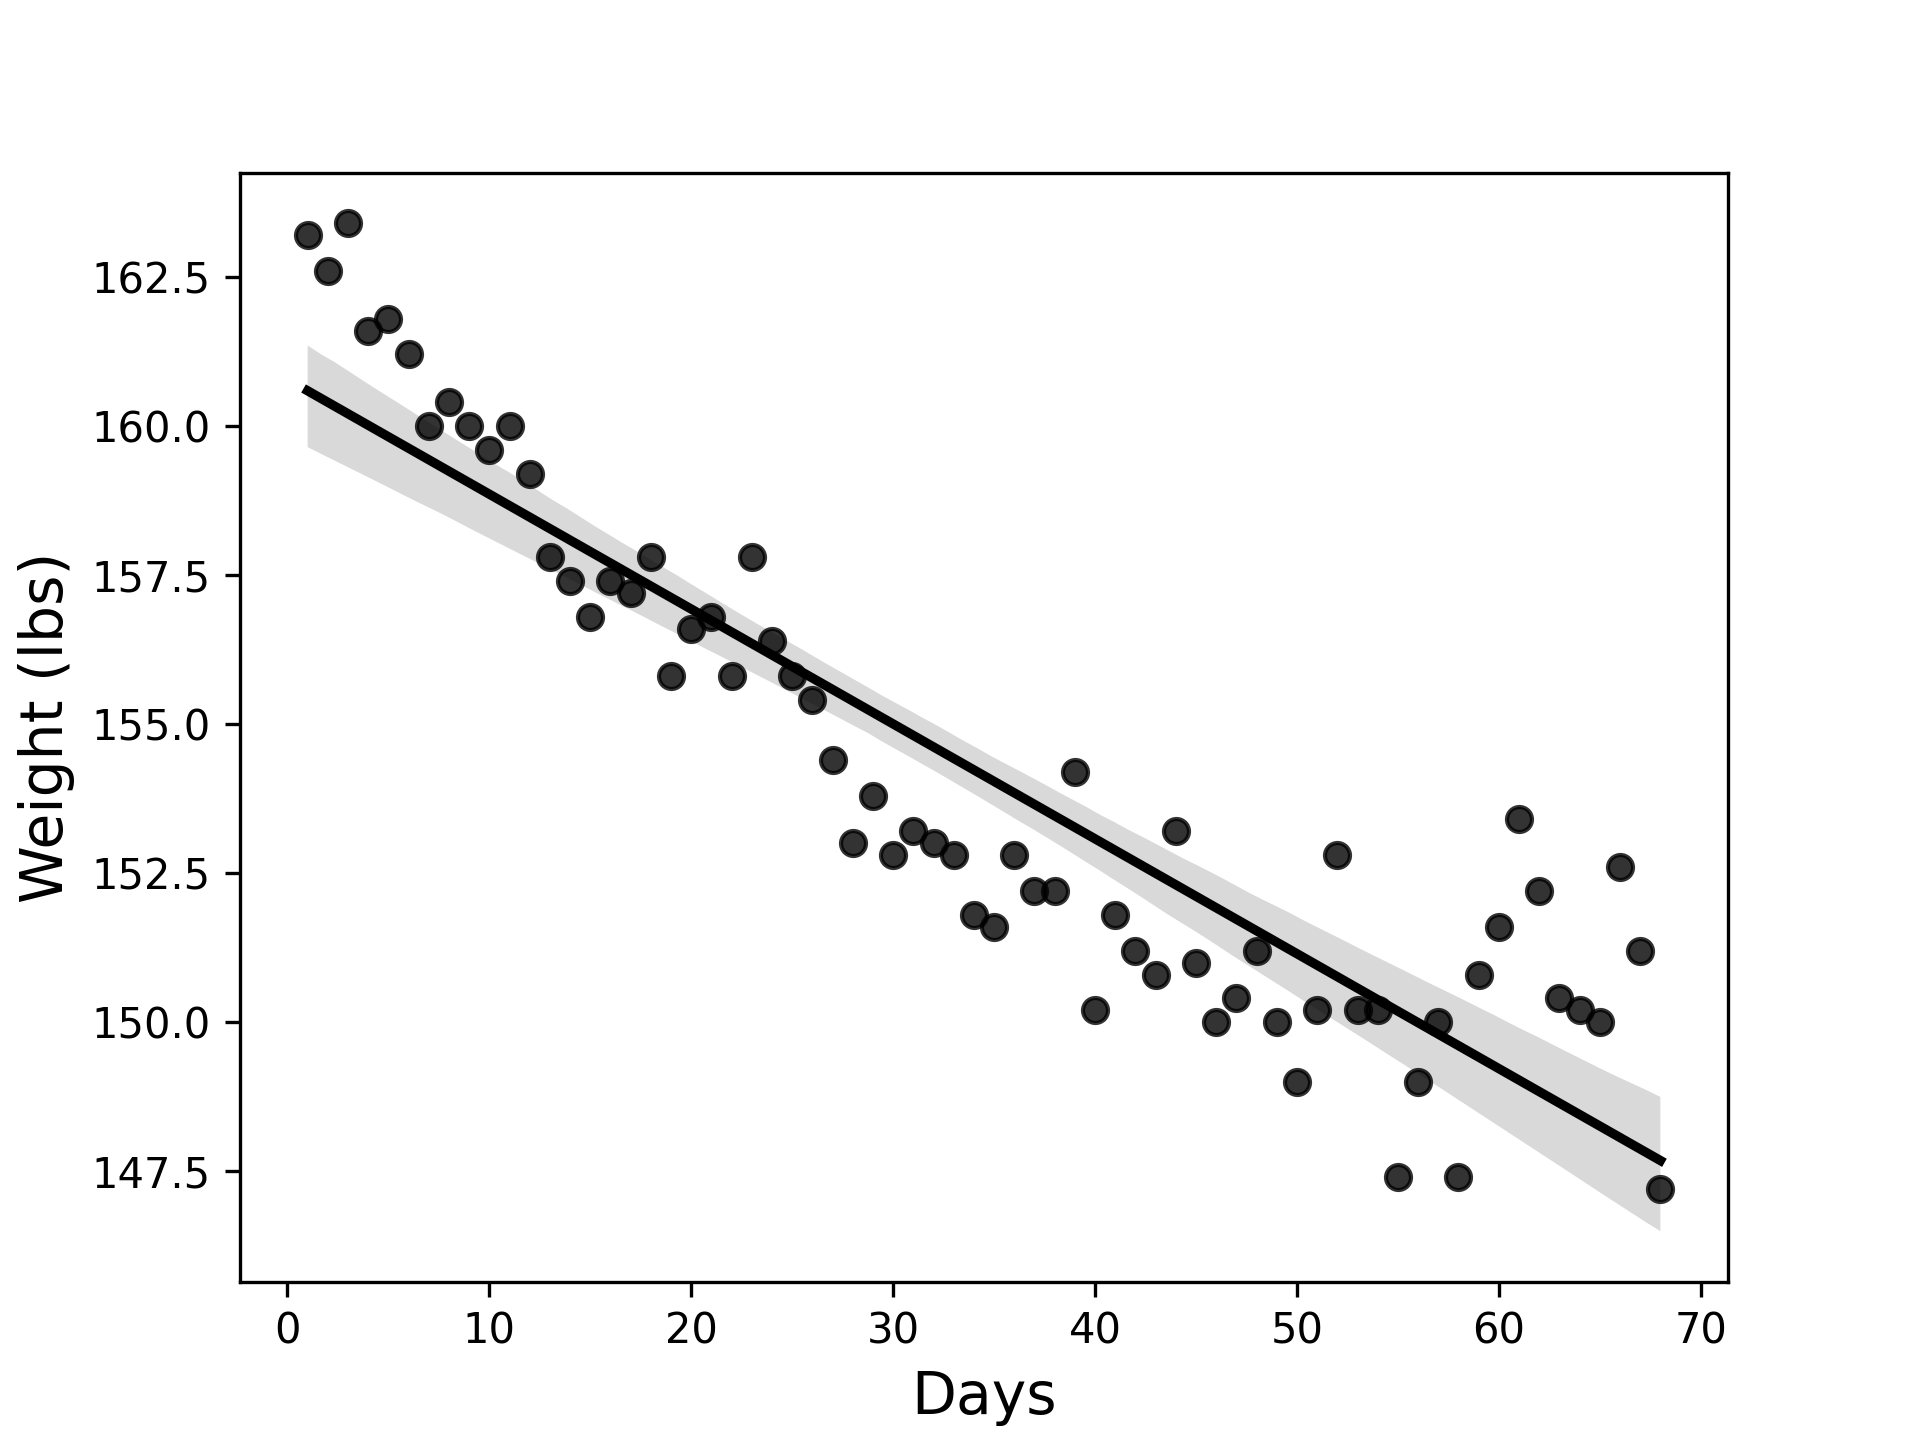
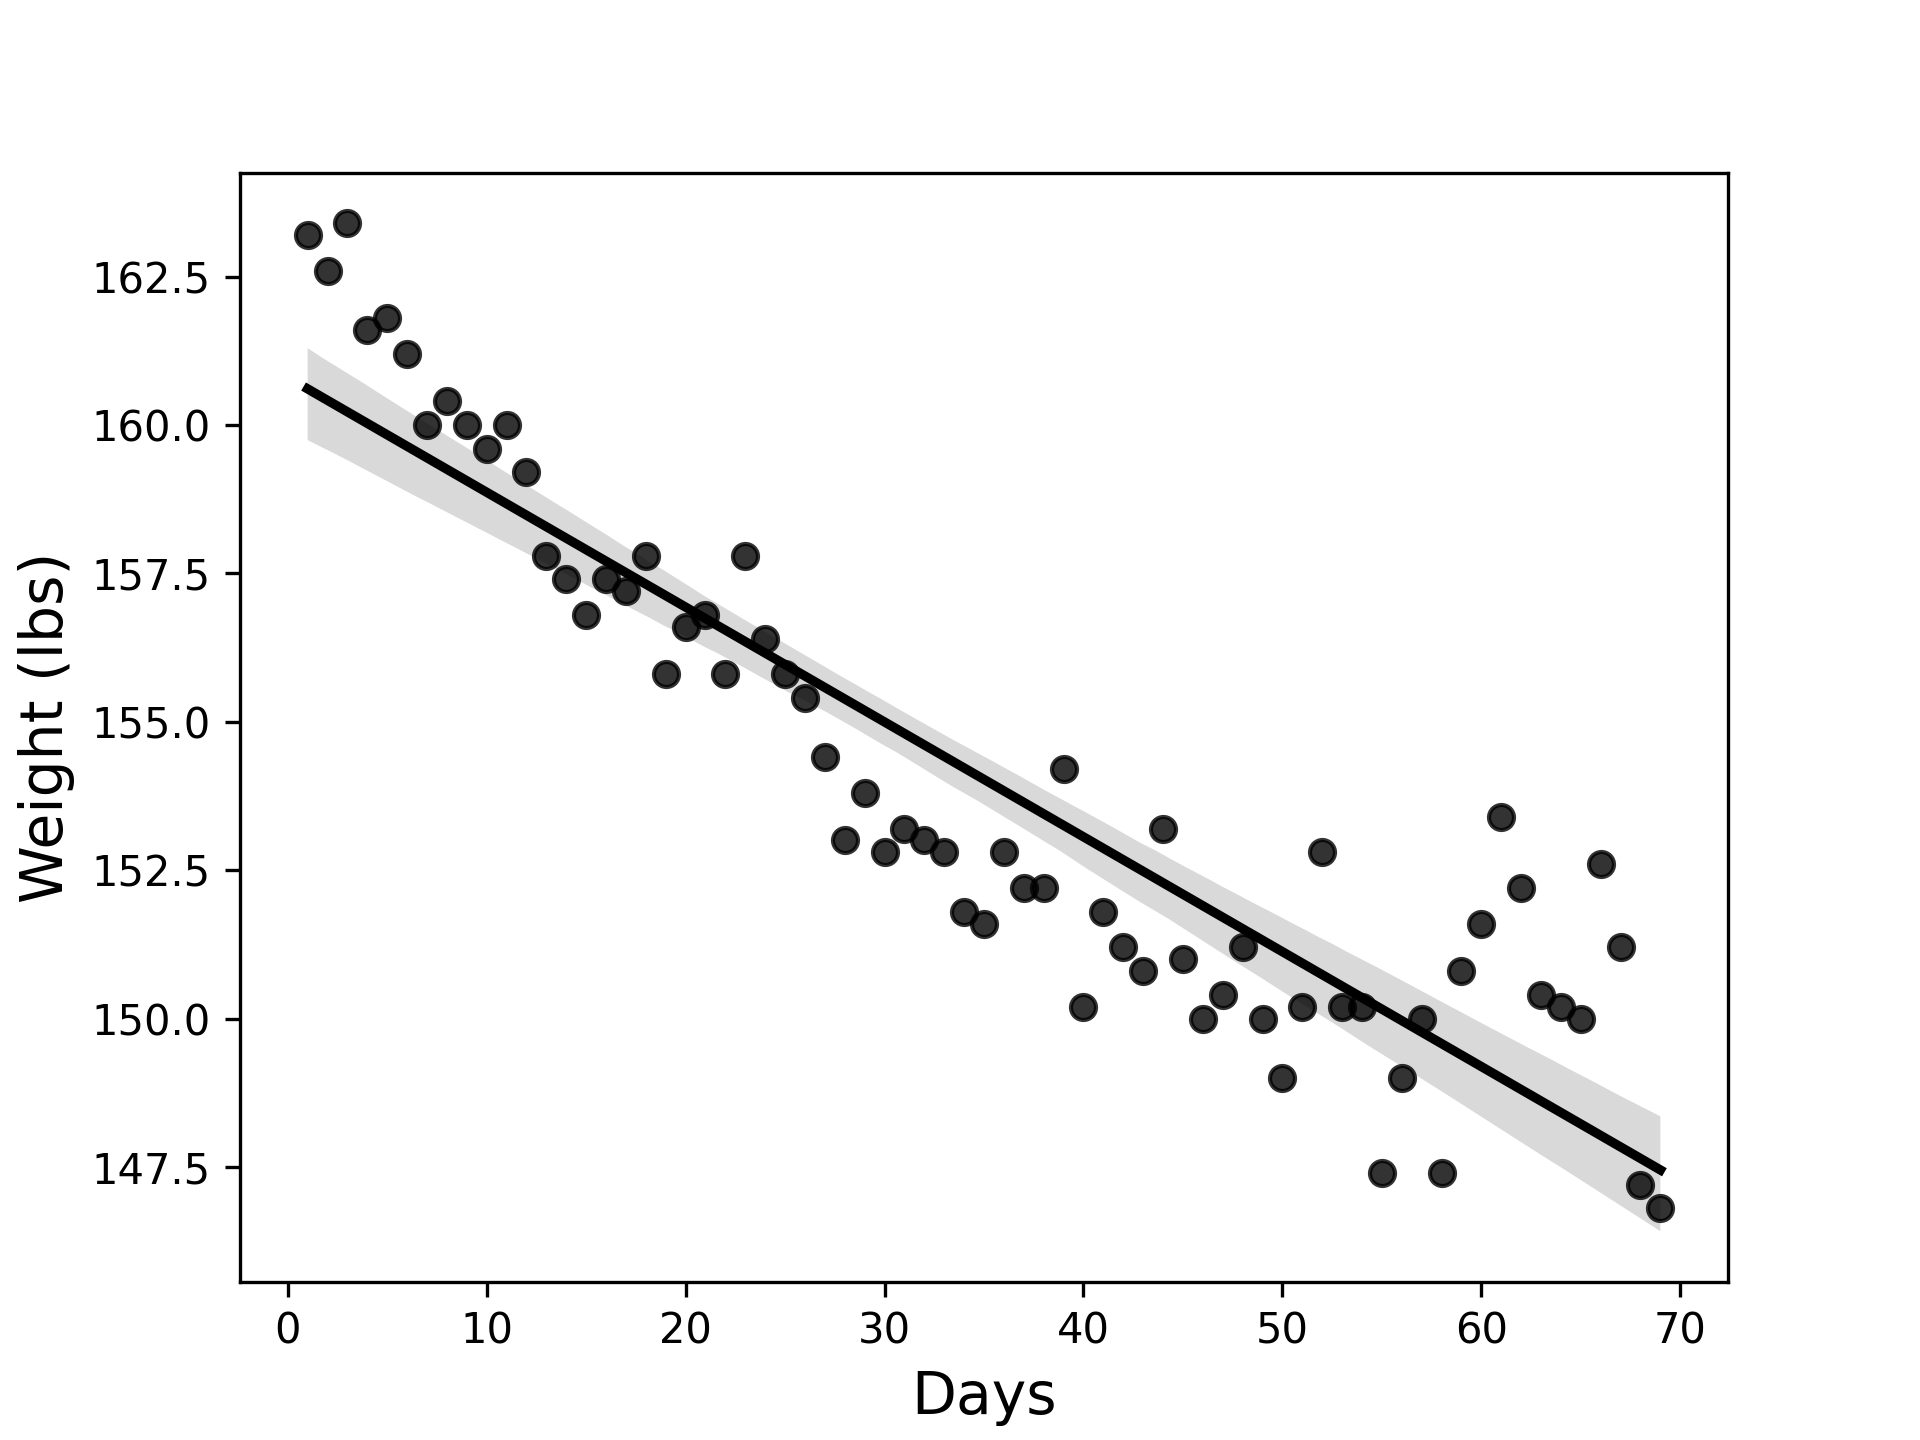
Updated weight.py and weight.png

diff --git a/Weight.py b/Weight.py
@@ -8,12 +8,12 @@ import seaborn as sns
 days_elapsed = np.array([1, 2, 3 ,4, 5, 6, 7, 8, 9, 10,11,12,13, 14,15,16,17,18,
                          19, 20,21,22,23,24,25,26,27,28,29,30,31,32,33,34,35,36,37,38,39,
                          40,41,42,43,44,45,46,47,48,49,50,51,52,53,54,55,56,57,58,59,60,61,62,
-                         63,64,65,66,67,68]).reshape(-1,1)
+                         63,64,65,66,67,68,69]).reshape(-1,1)
 weight = np.array([163.2, 162.6, 163.4, 161.6, 161.8, 161.2, 160.0, 160.4, 160.0, 159.6,160.0,159.2,157.8, 157.4,156.8,157.4,
                    157.2, 157.8,155.8, 156.6,156.8,155.8,157.8,156.4,155.8,155.4,154.4,153.0,153.8,152.8,153.2,
                    153.0,152.8,151.8,151.6,152.8,152.2,152.2,154.2,150.2, 151.8,151.2,150.8,153.2,
                    151.0,150.0,150.4,151.2,150.0,149.0,150.2,152.8,150.2,150.2,147.4,149.0,150.0,147.4,
-                   150.8,151.6,153.4,152.2,150.4,150.2,150.0,152.6,151.2,147.2])
+                   150.8,151.6,153.4,152.2,150.4,150.2,150.0,152.6,151.2,147.2,146.8])
 # Day 62 BP
 
 # Instantiates a LinearRegression model and fits it to the above arrays
